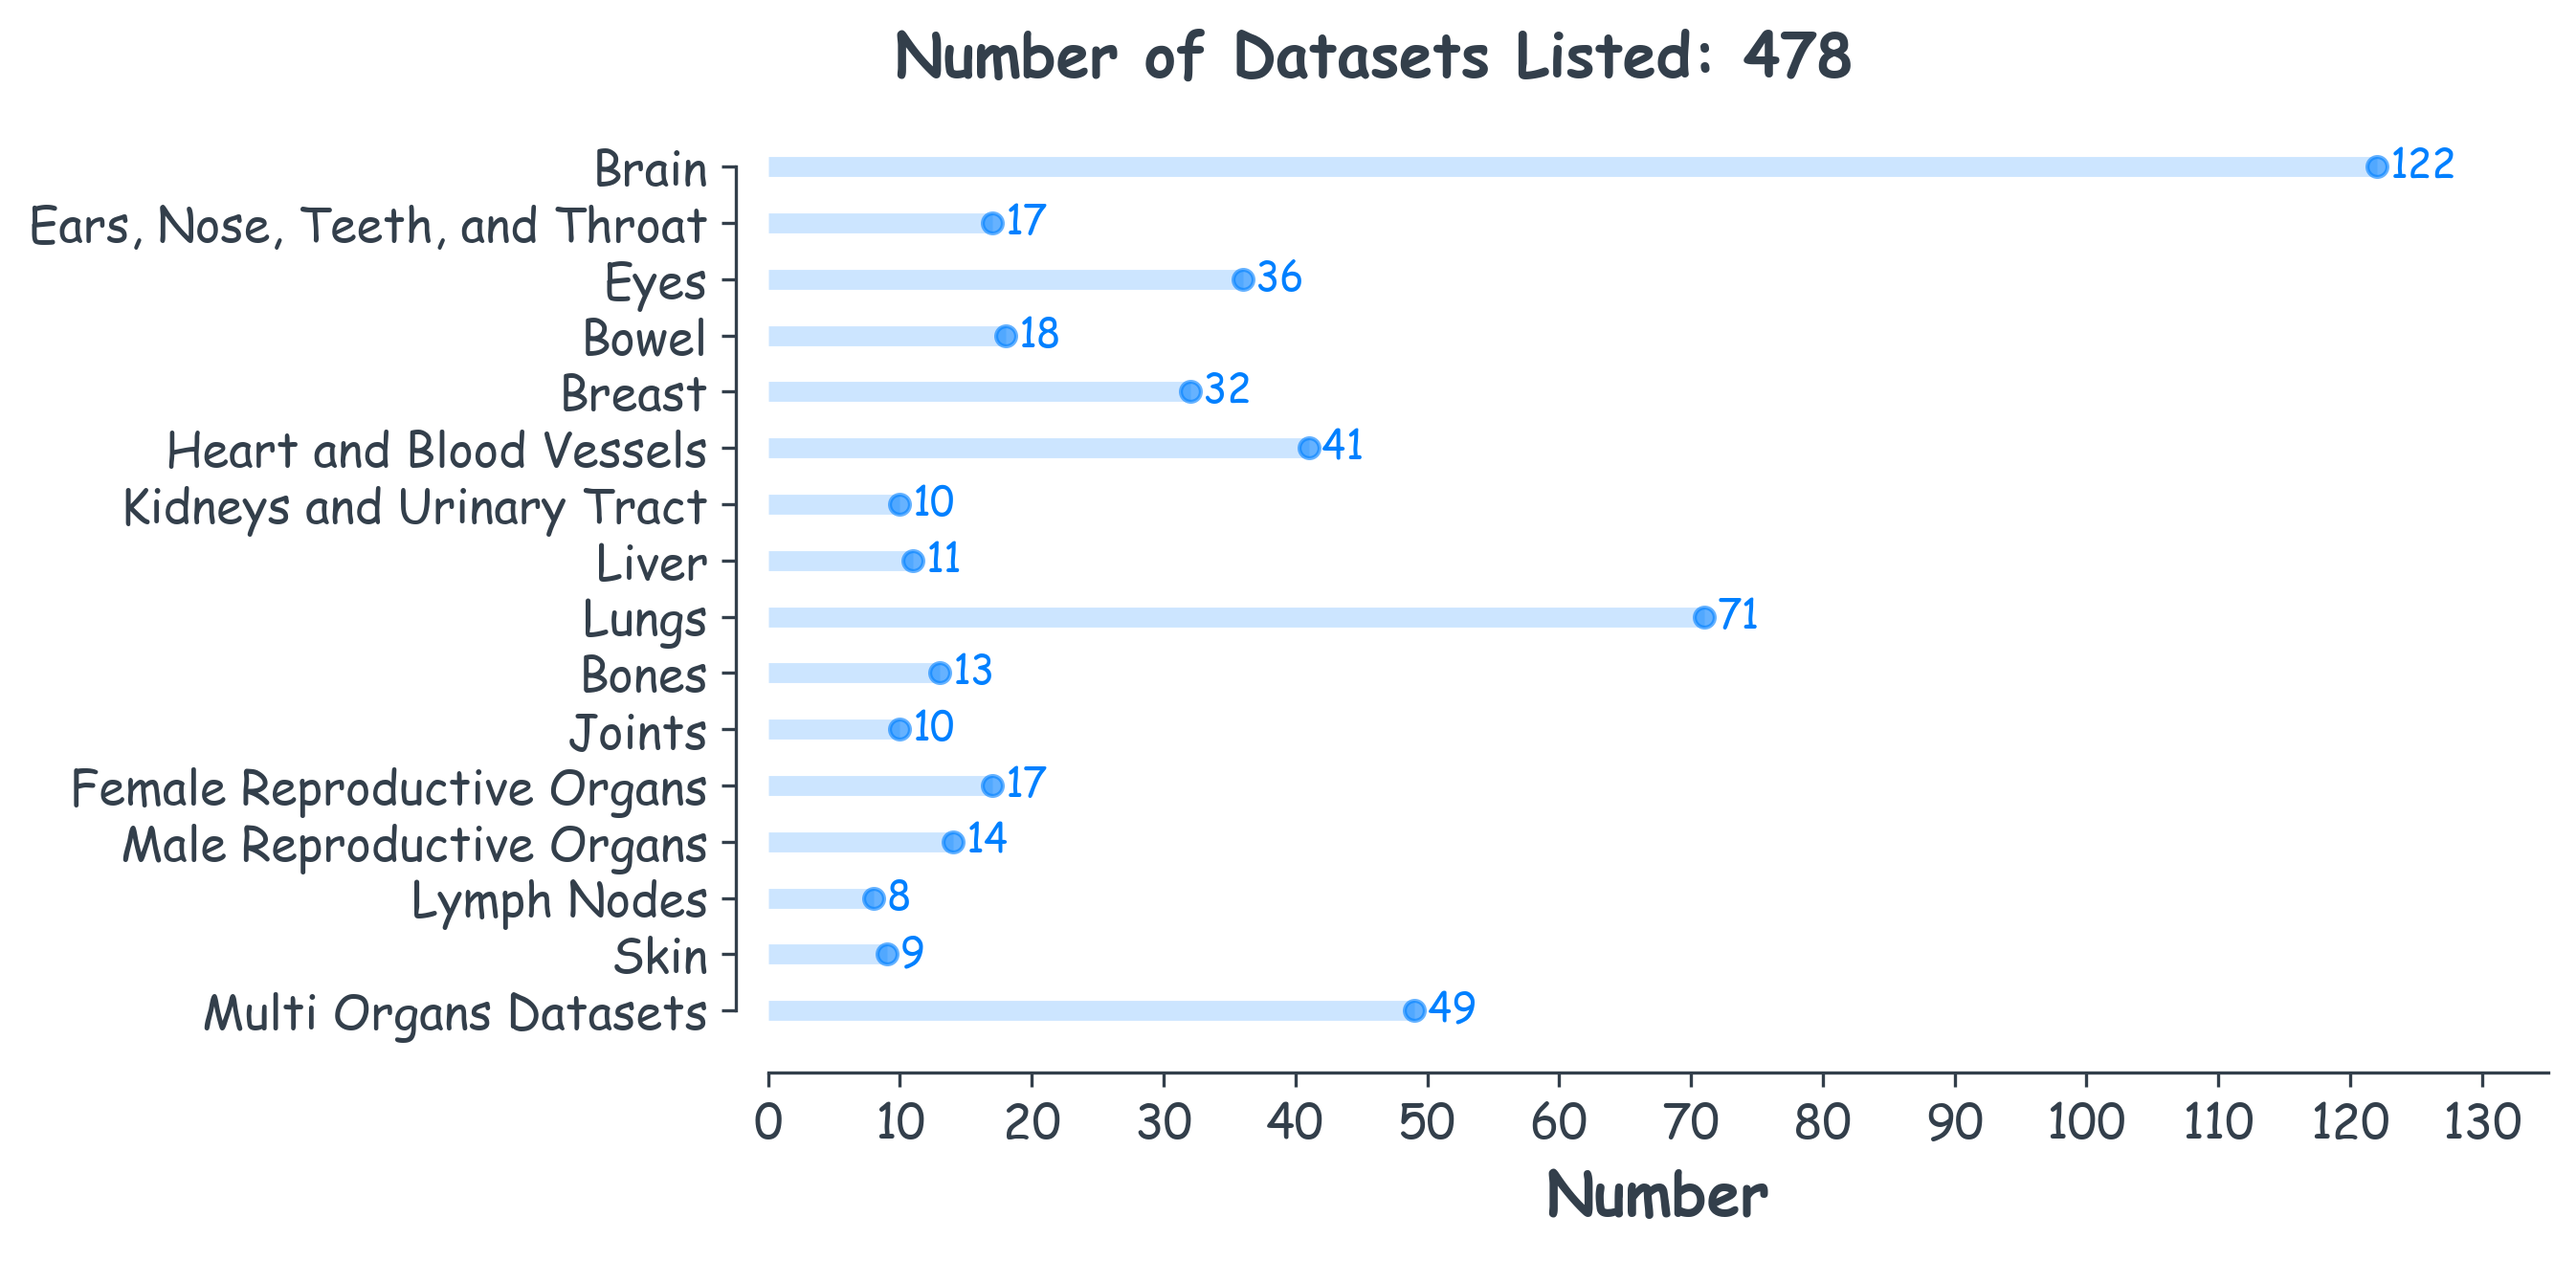
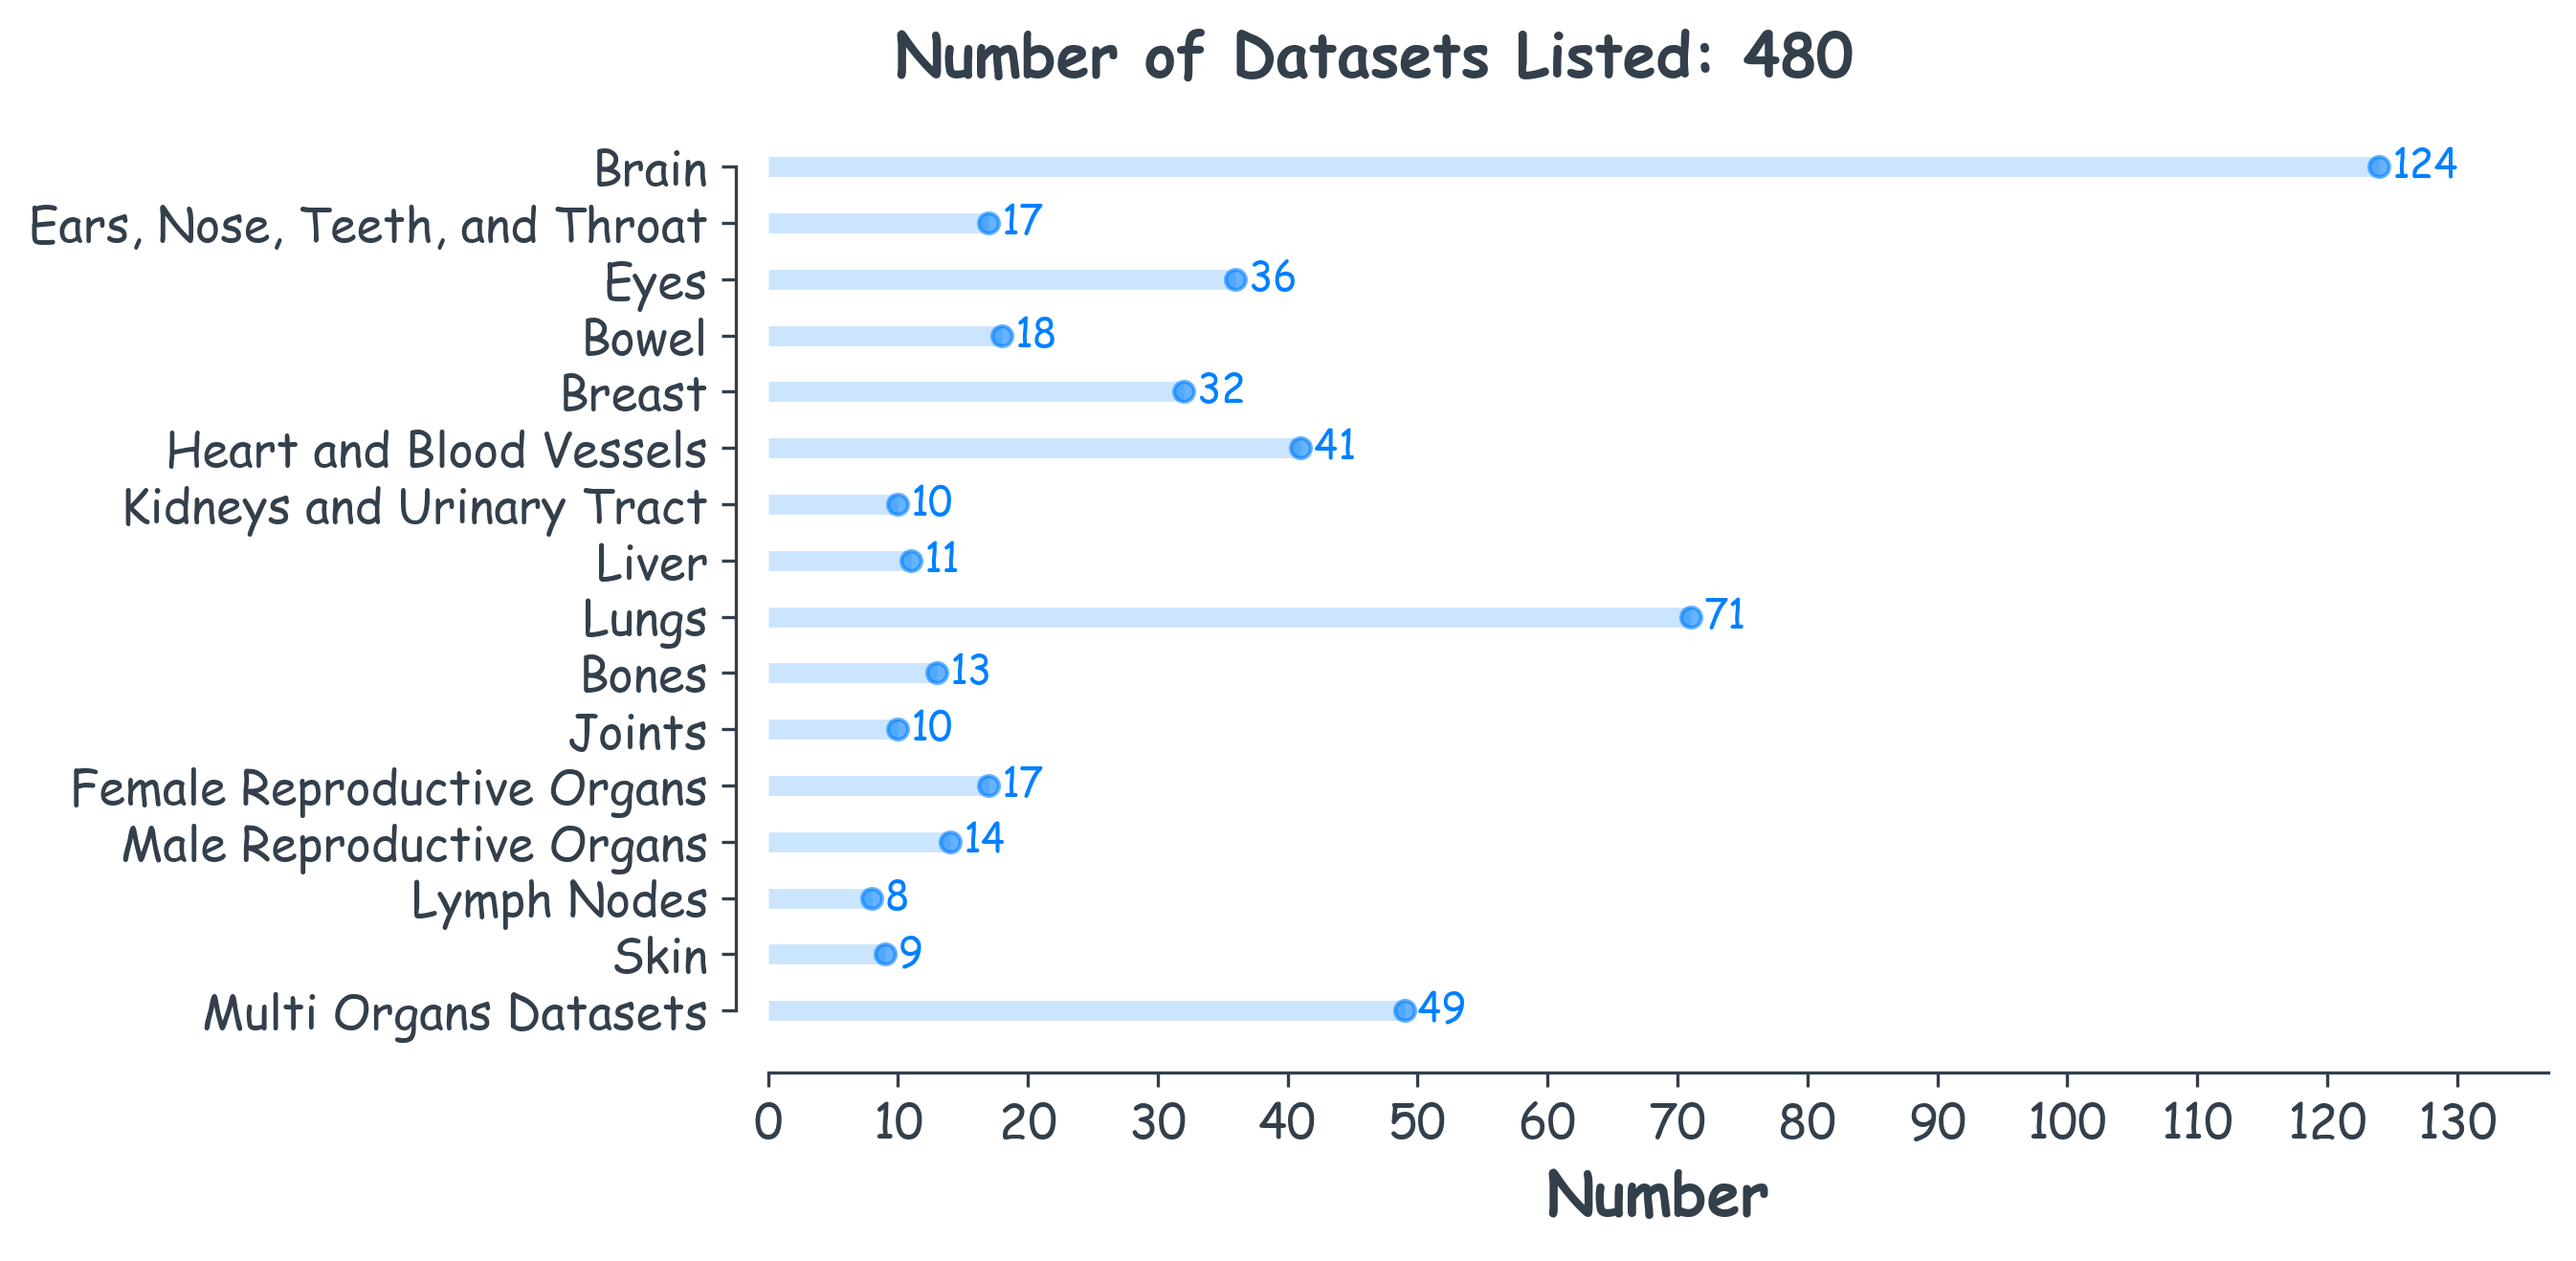
update image number, N = 480

diff --git a/src/datasetNumberImage.py b/src/datasetNumberImage.py
@@ -29,7 +29,7 @@ plt.rcParams['text.color']='#333F4B'
 
 
 data = {
-       'Brain': 122,
+       'Brain': 124,
        'Ears, Nose, Teeth, and Throat': 17, 
        'Eyes': 36,
        'Bowel': 18,
